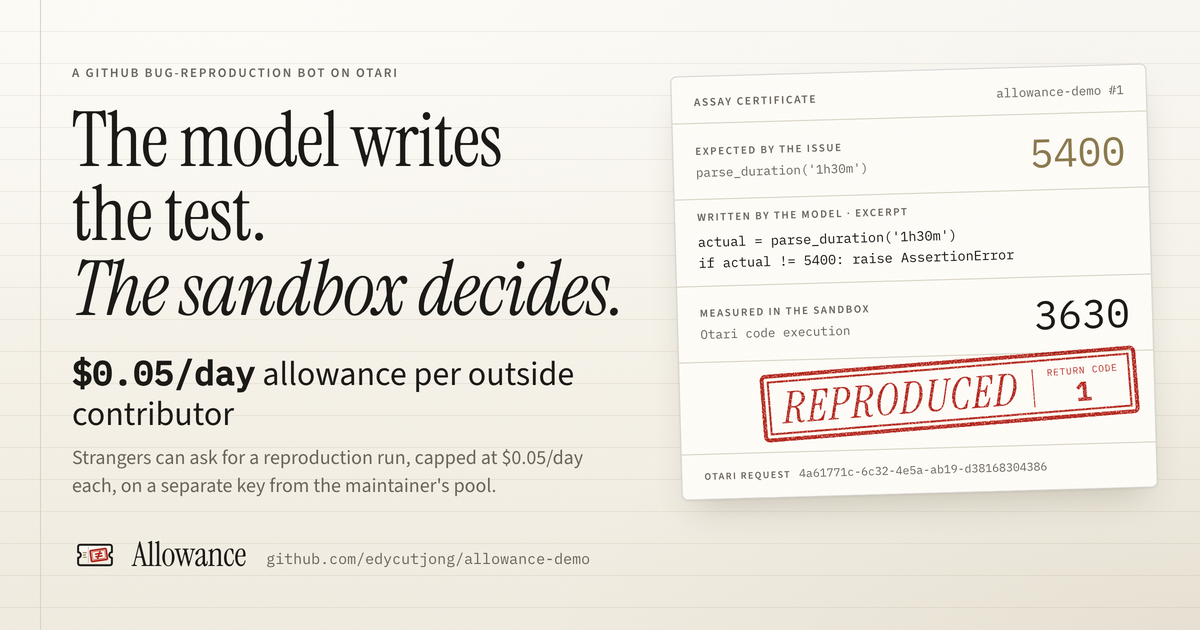
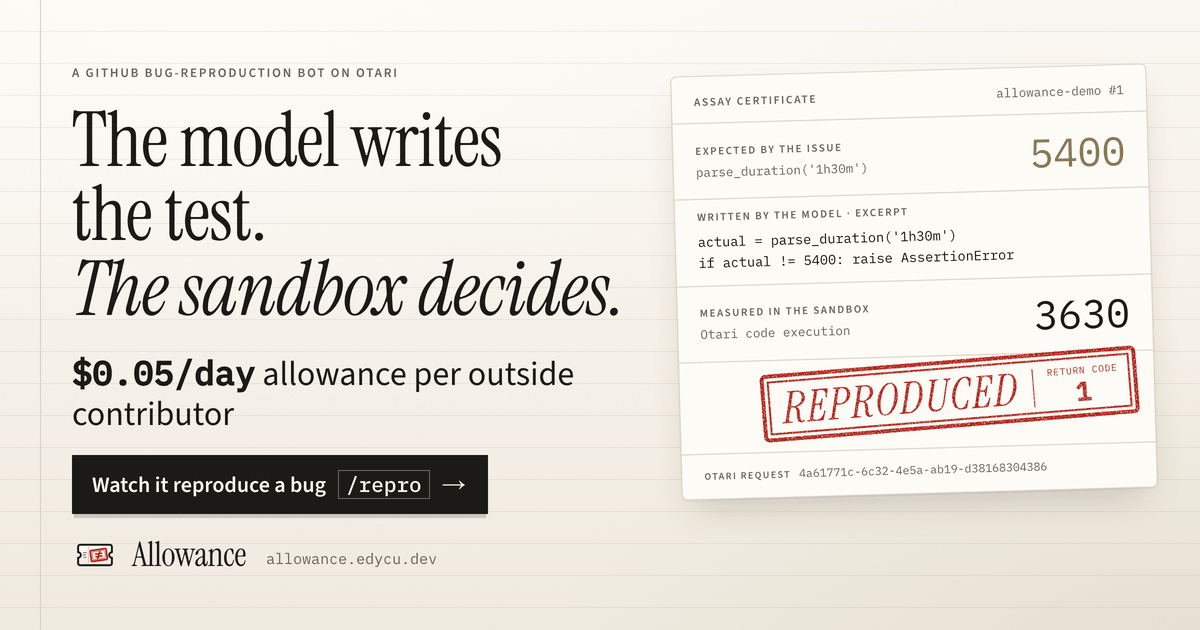
fix(og): call-to-action button on the social card
'Watch it reproduce a bug /repro ->' plus the site URL; quantized 760 KB -> 232 KB
(SSIM 0.995) so WhatsApp previews load; og:image cache-busted on all pages.

Changed region(s): [[0.0617, 0.6937, 0.4933, 0.8444], [0.2158, 0.8746, 0.4933, 0.9048]]

diff --git a/public/deck/index.html b/public/deck/index.html
@@ -18,11 +18,11 @@
 <meta property="og:title" content="Allowance — pitch deck">
 <meta property="og:description" content="The model writes the test. The sandbox decides. $0.05 a day per outside contributor.">
 <meta property="og:url" content="https://allowance.edycu.dev/deck">
-<meta property="og:image" content="https://allowance.edycu.dev/media/og.png?v=0442177a">
+<meta property="og:image" content="https://allowance.edycu.dev/media/og.png?v=32edfd70">
 <meta property="og:image:width" content="1200">
 <meta property="og:image:height" content="630">
 <meta name="twitter:card" content="summary_large_image">
-<meta name="twitter:image" content="https://allowance.edycu.dev/media/og.png?v=0442177a">
+<meta name="twitter:image" content="https://allowance.edycu.dev/media/og.png?v=32edfd70">
 <link rel="preload" href="/fonts/instrument-serif-400-normal.woff2" as="font" type="font/woff2" crossorigin>
 <style>
 @font-face{font-family:"Instrument Serif";src:url(/fonts/instrument-serif-400-normal.woff2) format("woff2");font-weight:400;font-style:normal;font-display:swap}

diff --git a/public/judge/index.html b/public/judge/index.html
@@ -7,7 +7,7 @@
 <meta name="description" content="Allowance in 30 seconds: what to click, what each Otari feature proves, and what is not claimed.">
 <link rel="icon" href="/favicon.svg" type="image/svg+xml">
 <meta property="og:title" content="Allowance — for judges">
-<meta property="og:image" content="https://allowance.edycu.dev/media/og.png?v=0442177a">
+<meta property="og:image" content="https://allowance.edycu.dev/media/og.png?v=32edfd70">
 <link rel="preload" href="/fonts/instrument-serif-400-normal.woff2" as="font" type="font/woff2" crossorigin>
 <link rel="preload" href="/fonts/source-sans-3-var.woff2" as="font" type="font/woff2" crossorigin>
 <style>
